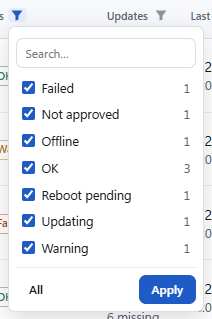
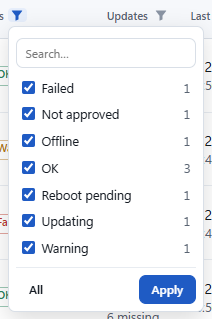
Text of pills, category tags and tab counts in the optical middle; help screenshots

diff --git a/src/SUSyphos.Server/wwwroot/app.css b/src/SUSyphos.Server/wwwroot/app.css
@@ -252,9 +252,14 @@ main { container: page / inline-size; }
 .pill.queue { color: var(--queue); }
 .pill.fail { color: var(--fail); }
 .pill.neutral { color: var(--muted); }
+/* Segoe UI sits about 1.5 px low in a 20 px box with line-height 1: lift the text by the padding, keep the dot in the middle. */
+.pill { padding-bottom: 3px; }
+.pill::before { transform: translateY(1.5px); }
 /* A pill with a detail (StatusTag): an "i" segment inside the pill opens a small card that floats above the table. */
 details.pill-info { display: inline-block; position: relative; vertical-align: middle; }
-details.pill-info > summary { list-style: none; cursor: pointer; padding-right: 0; overflow: hidden; }
+details.pill-info > summary { list-style: none; cursor: pointer; padding-right: 0; padding-bottom: 0; overflow: hidden; }
+details.pill-info > summary::before { transform: none; }
+.pill-info .pill-text { position: relative; top: -1.5px; }
 details.pill-info > summary::-webkit-details-marker { display: none; }
 .pill-i { align-self: stretch; display: inline-flex; align-items: center; justify-content: center; width: 18px; margin-left: 0.1rem; border-left: 1px solid color-mix(in srgb, currentColor 30%, transparent); background: color-mix(in srgb, currentColor 10%, var(--surface)); font-family: Georgia, "Times New Roman", serif; font-size: 0.72rem; font-style: italic; font-weight: 700; line-height: 1; }
 details.pill-info > summary:hover .pill-i, details.pill-info[open] .pill-i { background: color-mix(in srgb, currentColor 22%, var(--surface)); }
@@ -735,7 +740,7 @@ a.ring-tag:hover { text-decoration: none; background: var(--surface-2); }
 .ring-tag.r5::before { background: var(--series-5); } .ring-tag.r6::before { background: var(--series-6); } .ring-tag.r7::before { background: var(--series-7); } .ring-tag.r8::before { background: var(--series-8); }
 
 /* Page tabs with badges (docs/06-dashboard.md, section 8 "Tabs"). */
-.tab-badge { display: inline-flex; align-items: center; justify-content: center; min-width: 1.2rem; height: 1.2rem; margin-left: 0.4rem; padding: 0 0.35rem; border-radius: 999px; background: var(--line); color: var(--muted); font-size: 0.72rem; font-weight: 700; }
+.tab-badge { display: inline-flex; align-items: center; justify-content: center; min-width: 1.2rem; height: 1.2rem; margin-left: 0.4rem; padding: 0 0.35rem 2px; border-radius: 999px; background: var(--line); color: var(--muted); font-size: 0.72rem; font-weight: 700; }
 .tab-badge.queue { background: var(--queue-soft); color: var(--queue); }
 .tab-badge.fail { background: var(--fail-soft); color: var(--fail); }
 .box-actions { margin-top: 0.9rem; justify-content: flex-end; }
@@ -802,9 +807,9 @@ td .kb-links { margin-top: 0.2rem; }
 .tag-list { display: flex; flex-wrap: wrap; gap: 0.25rem; margin-top: 0.3rem; max-width: 9rem; }
 
 /* Category tags tell kinds apart with a tint of the categorical palette (not a status colour). */
-.cat-tag { --cat: var(--series-1); display: inline-flex; align-items: center; height: 20px; padding: 0 0.5rem; border: 1px solid color-mix(in srgb, var(--cat) 45%, transparent); border-radius: 4px; background: color-mix(in srgb, var(--cat) 14%, var(--surface)); color: var(--text); font-size: 0.78rem; white-space: nowrap; vertical-align: middle; }
+.cat-tag { --cat: var(--series-1); display: inline-flex; align-items: center; height: 20px; padding: 0 0.5rem 3px; border: 1px solid color-mix(in srgb, var(--cat) 45%, transparent); border-radius: 4px; background: color-mix(in srgb, var(--cat) 14%, var(--surface)); color: var(--text); font-size: 0.78rem; white-space: nowrap; vertical-align: middle; }
 /* In narrow table columns a long category may wrap instead of widening the table. */
-td .cat-tag { white-space: normal; height: auto; min-height: 20px; padding-block: 0.1rem; line-height: 1.2; }
+td .cat-tag { white-space: normal; height: auto; min-height: 20px; padding-block: 0.1rem 0.2rem; line-height: 1.2; }
 .cat-tag.c0 { --cat: var(--idle); } .cat-tag.c1 { --cat: var(--series-5); } .cat-tag.c2 { --cat: var(--series-7); } .cat-tag.c3 { --cat: var(--series-3); } .cat-tag.c4 { --cat: var(--series-8); }
 
 /* Expanded rows (ListTable Details): the row stays tinted, the details open right below it, indented and shaded. */

diff --git a/tests/SUSyphos.UiTests/InteractionTests.cs b/tests/SUSyphos.UiTests/InteractionTests.cs
@@ -451,7 +451,8 @@ public sealed class InteractionTests(UiFixture ui)
         var mark = await info.Locator(".pill-i").BoundingBoxAsync();
         Assert.NotNull(text);
         Assert.NotNull(mark);
-        Assert.True(Math.Abs((text.Y + (text.Height / 2)) - (mark.Y + (mark.Height / 2))) <= 1.5, "text and i segment are not centred on one line");
+        // The text box is lifted 1.5 px on purpose, so its glyphs sit in the optical middle (app.css, ".pill-info .pill-text").
+        Assert.True(Math.Abs((text.Y + (text.Height / 2)) - (mark.Y + (mark.Height / 2))) <= 2.5, "text and i segment are not centred on one line");
 
         await info.Locator("summary").HoverAsync();
         var pop = info.Locator(".pill-pop");

diff --git a/CHANGELOG.md b/CHANGELOG.md
@@ -10,6 +10,7 @@ All notable changes are documented here. Format based on [Keep a Changelog](http
 - Update page, tab Servers: operating system, groups, when and by whom the update was installed, the result, a ⋯ menu per server (Install now…, Hold for this server…, Uninstall…) and grouping by ring, status, operating system or group; the tab names the work left ("3 to do", "1 failed"), and "Show ›" on "All servers" and "Show all servers ›" below "Progress by ring" open it.
 - Recent activity on the server page shows the kind of each entry as a coloured pill, like the tasks.
 - Pills with a detail (restart time, error code, who started an installation) show it behind an "i" segment inside the pill: hovering opens a small card that floats above the table, a click keeps it open; rows keep their height and nothing breaks between date and time.
+- The text of pills, category tags and tab counts sits in their optical middle (Segoe UI sat about 1.5 px low).
 - Category tags for the classification of updates (update list and both histories on the server page: security and critical updates, definition updates and drivers in their own colour, the rest grey) and for the role of an account.
 - Server list: the view "Not fully patched" lists the servers whose last update search still reports a missing update, released or not, and the Updates column shows how many are missing in all; the "Show ›" of the Compliance tile opens this view.
 
